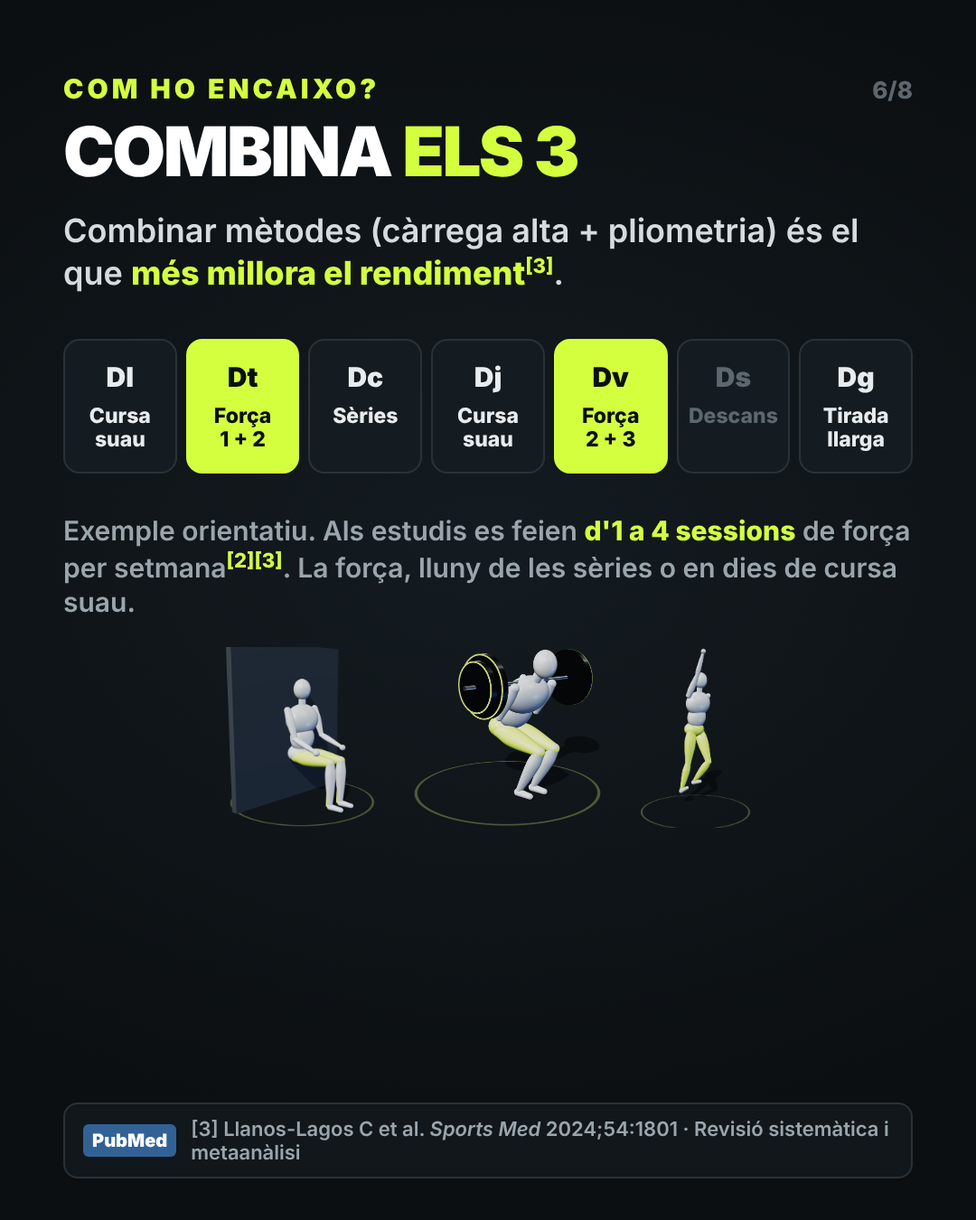
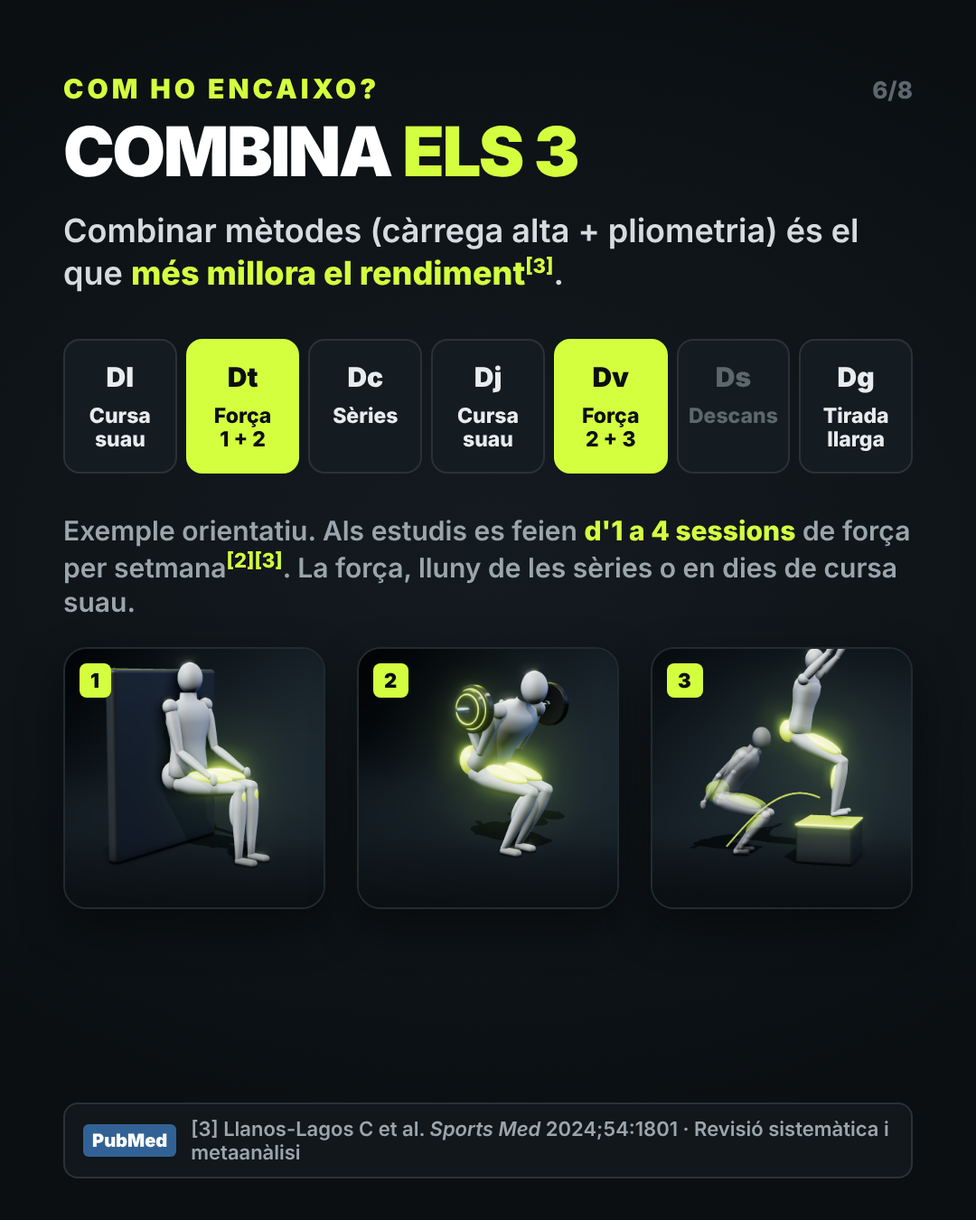
Força: il·lustracions 3D v2 (estudi, AO, bloom, maniquí anatòmic, Aquil·les)
Claude-Session: https://claude.ai/code/session_0129rqGdsRmN9Z9aLzGCda8A

diff --git a/media/publicacions/forca_corredors/3d/scene2.html b/media/publicacions/forca_corredors/3d/scene2.html
@@ -1,0 +1,250 @@
+<html><body style="margin:0;background:#0B0F12">
+<canvas id=c></canvas>
+<script type="importmap">{"imports":{"three":"./node_modules/three/build/three.module.js","three/addons/":"./node_modules/three/examples/jsm/"}}</script>
+<script type="module">
+import * as THREE from 'three';
+import { RoomEnvironment } from 'three/addons/environments/RoomEnvironment.js';
+import { mergeGeometries } from 'three/addons/utils/BufferGeometryUtils.js';
+import { RoundedBoxGeometry } from 'three/addons/geometries/RoundedBoxGeometry.js';
+import { EffectComposer } from 'three/addons/postprocessing/EffectComposer.js';
+import { RenderPass } from 'three/addons/postprocessing/RenderPass.js';
+import { GTAOPass } from 'three/addons/postprocessing/GTAOPass.js';
+import { UnrealBloomPass } from 'three/addons/postprocessing/UnrealBloomPass.js';
+import { OutputPass } from 'three/addons/postprocessing/OutputPass.js';
+
+const P = new URLSearchParams(location.search);
+const W = +P.get('w') || 1000, H = +P.get('h') || 1000, SC = P.get('s'), PR = +P.get('pr') || 2;
+const r = new THREE.WebGLRenderer({ canvas: document.getElementById('c'), antialias: true, preserveDrawingBuffer: true });
+r.setPixelRatio(PR); r.setSize(W, H);
+r.toneMapping = THREE.ACESFilmicToneMapping; r.toneMappingExposure = 0.9;
+r.outputColorSpace = THREE.SRGBColorSpace;
+r.shadowMap.enabled = true; r.shadowMap.type = THREE.PCFSoftShadowMap;
+const scene = new THREE.Scene();
+const pm = new THREE.PMREMGenerator(r);
+scene.environment = pm.fromScene(new RoomEnvironment(), 0.04).texture;
+scene.environmentIntensity = 0.35;
+scene.background = new THREE.Color(0x0B0F12);
+const cam = new THREE.PerspectiveCamera(28, W / H, 0.1, 300);
+const LIME = 0xD4FF3F;
+
+// ---------- estudi: ciclorama (terra + corba + paret)
+function cyclo(y0 = 0) {
+  const g = new THREE.PlaneGeometry(60, 1, 120, 160), p = g.attributes.position;
+  const R = 5, zFront = 30, zCurve = -4;
+  const prof = s => { // s 0..1 → (y,z)
+    const Lf = zFront - zCurve, La = Math.PI / 2 * R, Lw = 25, T = Lf + La + Lw; let d = s * T;
+    if (d < Lf) return [0, zFront - d];
+    d -= Lf; if (d < La) { const a = d / R; return [R - Math.cos(a) * R, zCurve - Math.sin(a) * R]; }
+    d -= La; return [R + d, zCurve - R];
+  };
+  const col = [], c0 = new THREE.Color(0x0B0F12), c1 = new THREE.Color(P.get("dbg") ? 0xff0000 : 0x323D44);
+  for (let i = 0; i < p.count; i++) {
+    const s = p.getY(i) + 0.5, x = p.getX(i); const [y, z] = prof(1 - s); p.setY(i, y + y0); p.setZ(i, z);
+    // llum: màxima a la base de la corba darrere el subjecte, cau cap endavant, amunt i als costats
+    const dz = z - (zCurve - 1.5), dy = y - 1.2;
+    const f = Math.exp(-(dz * dz) / 90 - (dy * dy) / 18 - (x * x) / 60);
+    const c = c0.clone().lerp(c1, f); col.push(c.r, c.g, c.b);
+  }
+  g.setAttribute('color', new THREE.Float32BufferAttribute(col, 3));
+  const m = new THREE.Mesh(g, new THREE.MeshBasicMaterial({ vertexColors: true, side: THREE.DoubleSide, fog: false })); scene.add(m);
+  const sh = new THREE.Mesh(new THREE.PlaneGeometry(40, 40), new THREE.ShadowMaterial({ opacity: .6 }));
+  sh.rotation.x = -Math.PI / 2; sh.position.y = y0 + 0.002; sh.receiveShadow = true; scene.add(sh);
+}
+function lights(k = 1) {
+  const key = new THREE.DirectionalLight(0xfff6ea, 1.7 * k); key.position.set(5, 9, 7); key.castShadow = true;
+  key.shadow.mapSize.set(4096, 4096); key.shadow.bias = -0.0002; key.shadow.normalBias = 0.02;
+  Object.assign(key.shadow.camera, { left: -7, right: 7, top: 7, bottom: -7, near: 1, far: 40 }); scene.add(key);
+  const fill = new THREE.DirectionalLight(0xbcd6ff, 0.6 * k); fill.position.set(-7, 4, 6); scene.add(fill);
+  const rim = new THREE.DirectionalLight(LIME, 2.2); rim.position.set(-5, 5, -6); scene.add(rim);
+  const rim2 = new THREE.DirectionalLight(0x7fb2ff, 1.4); rim2.position.set(6, 3, -6); scene.add(rim2);
+}
+let seed = 7; const rnd = () => (seed = (seed * 16807) % 2147483647) / 2147483647;
+const MAT = {
+  skin: () => new THREE.MeshPhysicalMaterial({ color: 0x9AA3A9, roughness: .55, clearcoat: .15, clearcoatRoughness: .5, sheen: .5, sheenColor: new THREE.Color(0xffffff) }),
+  hot: () => new THREE.MeshPhysicalMaterial({ color: LIME, roughness: .35, clearcoat: .9, clearcoatRoughness: .2, emissive: LIME, emissiveIntensity: .38 }),
+  bone: () => new THREE.MeshPhysicalMaterial({ color: 0xCFC4AE, roughness: .7, clearcoat: .2, sheen: .5, sheenColor: new THREE.Color(0xfff3dd) }),
+  red: () => new THREE.MeshPhysicalMaterial({ color: 0x9B1B25, roughness: .42, clearcoat: .7, clearcoatRoughness: .3, sheen: 1, sheenRoughness: .4, sheenColor: new THREE.Color(0xff9a8a) }),
+  tendon: (hot) => new THREE.MeshPhysicalMaterial({ color: hot ? 0xE6E2D4 : 0xBDB5A4, roughness: .34, clearcoat: 1, clearcoatRoughness: .18, sheen: .9, sheenColor: new THREE.Color(hot ? 0xeaffb0 : 0xffffff), iridescence: hot ? .25 : 0 }),
+};
+
+// ---------- feix de fibres genèric (camí per t → radi)
+function fibres({ N, L, R, prof, amp = 0, twist = 0, rf = 0.04, seedv = 3, segs = 70, y0 = 0 }) {
+  seed = seedv; const geos = [];
+  for (let i = 0; i < N; i++) {
+    const a = rnd() * Math.PI * 2, rr = Math.sqrt(rnd()), A = amp * (0.6 + rnd() * .8), fq = 4 + rnd() * 3, ph = rnd() * 6.28, pts = [];
+    for (let k = 0; k <= 40; k++) {
+      const t = k / 40, rad = R * prof(t) * rr, aa = a + twist * t;
+      pts.push(new THREE.Vector3(Math.cos(aa) * rad + A * Math.sin(fq * t * 6.28 + ph), y0 + t * L, Math.sin(aa) * rad + A * Math.cos(fq * t * 6.28 + ph * 1.7)));
+    }
+    geos.push(new THREE.TubeGeometry(new THREE.CatmullRomCurve3(pts), segs, rf * (0.75 + rnd() * .5), 8, false));
+  }
+  return mergeGeometries(geos);
+}
+
+// ---------- AQUIL·LES: bessó (vermell) → tendó → calcani
+function achilles(strong, x) {
+  const g = new THREE.Group();
+  const Lt = 2.3, Rt = strong ? 0.33 : 0.25;
+  const ten = new THREE.Mesh(fibres({ N: strong ? 95 : 60, L: Lt, R: Rt, prof: t => 0.85 + 0.25 * Math.pow(1 - t, 2) + 0.35 * Math.pow(t, 6), amp: strong ? 0.006 : 0.05, twist: 0.5, rf: strong ? 0.045 : 0.038, seedv: 11 }), MAT.tendon(strong));
+  ten.castShadow = true; g.add(ten);
+  // bessó: ventre muscular que s'estreny cap al tendó
+  const mus = new THREE.Mesh(fibres({ N: 110, L: 2.6, R: 0.78, prof: t => Math.max(0.3, Math.pow(Math.sin(Math.PI * (0.15 + t * 0.85)), 0.7)) * (0.55 + 0.45 * t), twist: 0.2, rf: 0.07, seedv: 23, y0: Lt - 0.15 }), MAT.red());
+  mus.castShadow = true; g.add(mus);
+  // calcani
+  const bm = MAT.bone();
+  const cal = new THREE.Mesh(new RoundedBoxGeometry(0.95, 0.62, 0.7, 6, 0.26), bm); cal.position.set(-0.12, -0.22, 0); cal.rotation.z = 0.18; cal.castShadow = true; g.add(cal);
+  const tub = new THREE.Mesh(new THREE.SphereGeometry(0.34, 48, 32), bm); tub.position.set(-0.36, -0.12, 0); tub.scale.set(1, .9, 1.1); tub.castShadow = true; g.add(tub);
+  g.position.x = x; g.position.y = 0.5; return g;
+}
+
+// ---------- MÚSCUL fusiforme amb tendons fibrosos
+function muscle(big, x) {
+  const g = new THREE.Group(), L = 3.6, R = big ? 1.02 : 0.6;
+  const m = new THREE.Mesh(fibres({ N: big ? 170 : 90, L, R, prof: t => Math.pow(Math.sin(Math.PI * t), 0.75), twist: 0.35, rf: big ? 0.075 : 0.065, seedv: 31, y0: 0.7 }), MAT.red());
+  m.castShadow = true; g.add(m);
+  const tm = MAT.tendon(true);
+  const t1 = new THREE.Mesh(fibres({ N: 26, L: 0.85, R: 0.13, prof: t => 1 - 0.4 * t, rf: 0.03, seedv: 5 }), tm); t1.castShadow = true; g.add(t1);
+  const t2 = new THREE.Mesh(fibres({ N: 26, L: 0.85, R: 0.13, prof: t => 0.6 + 0.4 * t, rf: 0.03, seedv: 6, y0: L + 0.55 }), tm); t2.castShadow = true; g.add(t2);
+  g.position.x = x; g.position.y = 0.05; return g;
+}
+
+// ---------- MOLLA
+function spring(stiff, x) {
+  const g = new THREE.Group(), turns = 6, R = 0.8, h = stiff ? 2.5 : 1.35, wire = stiff ? 0.19 : 0.085, pts = [];
+  for (let k = 0; k <= 500; k++) { const t = k / 500, a = t * turns * 6.283; pts.push(new THREE.Vector3(Math.cos(a) * R, 0.2 + t * h, Math.sin(a) * R)); }
+  const m = new THREE.Mesh(new THREE.TubeGeometry(new THREE.CatmullRomCurve3(pts), 1200, wire, 32, false),
+    stiff ? new THREE.MeshPhysicalMaterial({ color: LIME, metalness: .55, roughness: .22, clearcoat: 1, emissive: LIME, emissiveIntensity: .12 })
+          : new THREE.MeshPhysicalMaterial({ color: 0xA9B3B9, metalness: .9, roughness: .28 }));
+  m.castShadow = true; g.add(m);
+  const pm = new THREE.MeshPhysicalMaterial({ color: 0x252D33, metalness: .6, roughness: .32, clearcoat: .8 });
+  const base = new THREE.Mesh(new RoundedBoxGeometry(2.3, 0.22, 2.3, 6, 0.08), pm); base.position.y = 0.11; base.castShadow = base.receiveShadow = true; g.add(base);
+  const top = new THREE.Mesh(new RoundedBoxGeometry(2.3, 0.34, 2.3, 6, 0.1), pm); top.position.y = 0.2 + h + 0.17; top.castShadow = true; g.add(top);
+  // pes que prem (només a la tova)
+  if (!stiff) { const w = new THREE.Mesh(new RoundedBoxGeometry(1.5, 0.9, 1.5, 6, 0.14), new THREE.MeshPhysicalMaterial({ color: 0x0F1316, metalness: .3, roughness: .4, clearcoat: .6 })); w.position.y = 0.2 + h + 0.34 + 0.45; w.castShadow = true; g.add(w); }
+  else { // fletxa de rebot
+    const ar = new THREE.Mesh(new THREE.ConeGeometry(0.28, 0.5, 40), MAT.hot()); ar.position.y = 0.2 + h + 1.05; g.add(ar);
+    const st = new THREE.Mesh(new THREE.CylinderGeometry(0.08, 0.08, 0.6, 24), MAT.hot()); st.position.y = 0.2 + h + 0.55; g.add(st);
+  }
+  g.position.x = x; return g;
+}
+
+// ---------- MANIQUÍ anatòmic
+const rad = x => x * Math.PI / 180;
+const dn = (p, th, L) => new THREE.Vector3(p.x + Math.sin(rad(th)) * L, p.y - Math.cos(rad(th)) * L, p.z);
+function limb(a, b, r1, r2, mat, bulge = 0, peak = .35) {
+  const d = new THREE.Vector3().subVectors(b, a), L = d.length(), pts = [];
+  for (let k = 0; k <= 48; k++) {
+    const t = k / 48, u = t < peak ? t / peak * .5 : .5 + (t - peak) / (1 - peak) * .5;
+    pts.push(new THREE.Vector2(r1 + (r2 - r1) * t + bulge * Math.pow(Math.sin(Math.PI * u), 1.6), t * L));
+  }
+  const g = new THREE.Group();
+  g.add(new THREE.Mesh(new THREE.LatheGeometry(pts, 56), mat));
+  const s1 = new THREE.Mesh(new THREE.SphereGeometry(r1, 40, 28), mat); g.add(s1);
+  const s2 = new THREE.Mesh(new THREE.SphereGeometry(r2, 40, 28), mat); s2.position.y = L; g.add(s2);
+  g.position.copy(a); g.quaternion.setFromUnitVectors(new THREE.Vector3(0, 1, 0), d.normalize()); return g;
+}
+// múscul en relleu sobre un segment (el·lipsoide orientat)
+function belly(a, b, side, t0, t1, rAcross, rZ, off, mat) {
+  const d = new THREE.Vector3().subVectors(b, a), L = d.length(); const u = d.clone().normalize();
+  const n = new THREE.Vector3(-u.y, u.x, 0);
+  const c = a.clone().add(u.clone().multiplyScalar(L * (t0 + t1) / 2)).add(n.multiplyScalar(side * off));
+  const e = new THREE.Mesh(new THREE.SphereGeometry(1, 48, 32), mat); e.scale.set(rAcross, L * (t1 - t0) / 2, rZ);
+  e.position.copy(c); e.quaternion.setFromUnitVectors(new THREE.Vector3(0, 1, 0), u); return e;
+}
+function man(P, hi, mats) {
+  const skin = mats?.skin || MAT.skin(), hot = mats?.hot || MAT.hot(); const H = n => hi.includes(n);
+  const g = new THREE.Group(); let low = 99;
+  const up = new THREE.Vector3(Math.sin(rad(P.tor)), Math.cos(rad(P.tor)), 0), fw = new THREE.Vector3(up.y, -up.x, 0);
+  const q = new THREE.Quaternion().setFromUnitVectors(new THREE.Vector3(0, 1, 0), up);
+  // tronc (perfil anatòmic)
+  const prof = [[0.0, .2], [.05, .27], [.18, .26], [.38, .235], [.55, .25], [.75, .3], [.9, .29], [1.0, .22], [1.05, .12], [1.14, .11]];
+  const tor = new THREE.Group(); const lat = new THREE.Mesh(new THREE.LatheGeometry(prof.map(([y, rr]) => new THREE.Vector2(rr, y)), 64), skin);
+  lat.scale.set(.78, 1, 1.28); tor.add(lat); tor.quaternion.copy(q); g.add(tor);
+  const neck = up.clone().multiplyScalar(1.08);
+  const head = new THREE.Mesh(new THREE.SphereGeometry(0.17, 56, 40), skin); head.scale.set(1, 1.2, .95); head.position.copy(up.clone().multiplyScalar(1.33)).add(fw.clone().multiplyScalar(.03)); g.add(head);
+  // glutis
+  for (const z of [.15, -.15]) { const gl = new THREE.Mesh(new THREE.SphereGeometry(1, 40, 28), H('gluti') ? hot : skin); gl.scale.set(.17, .2, .16); gl.position.copy(fw.clone().multiplyScalar(-.13)).add(up.clone().multiplyScalar(.02)); gl.position.z = z; g.add(gl); }
+  P.legs.forEach(([t, s, f], i) => {
+    const z = i ? -0.15 : 0.15, h = new THREE.Vector3(0, -0.06, z);
+    const k = dn(h, t, 0.92), a = dn(k, s, 0.9);
+    g.add(limb(h, k, 0.13, 0.075, skin, 0.04, .3)); g.add(limb(k, a, 0.075, 0.045, skin, 0.025, .3));
+    // quàdriceps (davant cuixa), bessó (darrere cama)
+    g.add(belly(h, k, 1, .1, .88, .095, .13, .1, H('quadri') ? hot : skin));
+    g.add(belly(k, a, -1, .06, .56, .07, .08, .065, H('besso') ? hot : skin));
+    if (H('tendo')) { g.add(belly(k, a, 1, .02, .22, .03, .045, .06, hot)); g.add(belly(k, a, -1, .62, .97, .028, .04, .028, hot)); }
+    // peu
+    const fa = rad(f), foot = new THREE.Mesh(new RoundedBoxGeometry(0.3, 0.085, 0.12, 4, 0.04), skin);
+    const fc = new THREE.Vector3(a.x + Math.sin(fa) * 0.11 , a.y - Math.cos(fa) * 0.11 - 0.03, z);
+    foot.position.copy(fc); foot.rotation.z = fa - Math.PI / 2; g.add(foot);
+    const toe = new THREE.Vector3(a.x + Math.sin(fa) * 0.26, a.y - Math.cos(fa) * 0.26, z);
+    low = Math.min(low, a.y - 0.09, toe.y - 0.05);
+  });
+  P.arms.forEach(([u, f], i) => {
+    const z = i ? -0.39 : 0.39, sh = neck.clone().sub(up.clone().multiplyScalar(.12)); sh.z = z;
+    const e = dn(sh, u, 0.6), w = dn(e, f, 0.55);
+    const del = new THREE.Mesh(new THREE.SphereGeometry(0.1, 40, 28), skin); del.position.copy(sh); g.add(del);
+    g.add(limb(sh, e, 0.07, 0.052, skin, 0.02, .35)); g.add(limb(e, w, 0.05, 0.035, skin, 0.015, .3));
+    const hand = new THREE.Mesh(new THREE.SphereGeometry(0.065, 32, 24), skin); hand.scale.set(.8, 1.25, .6); hand.position.copy(dn(w, f, 0.07)); g.add(hand);
+  });
+  g.traverse(o => { if (o.isMesh) { o.castShadow = true; o.receiveShadow = true; } });
+  g.position.y = -low + (P.lift || 0); g.userData = { neck: neck.clone().add(new THREE.Vector3(0, g.position.y, 0)), sh: neck.clone().sub(up.clone().multiplyScalar(.12)).add(new THREE.Vector3(0, g.position.y, 0)) };
+  return g;
+}
+function ghost(op) { return { skin: new THREE.MeshStandardMaterial({ color: 0xD8DCDF, transparent: true, opacity: op, roughness: .6, depthWrite: false }), hot: new THREE.MeshStandardMaterial({ color: LIME, emissive: LIME, emissiveIntensity: .15, transparent: true, opacity: op, depthWrite: false }) }; }
+function barbell(y, x) {
+  const g = new THREE.Group();
+  const bar = new THREE.Mesh(new THREE.CylinderGeometry(0.022, 0.022, 2.1, 32), new THREE.MeshPhysicalMaterial({ color: 0xD0D6DA, metalness: 1, roughness: .18 }));
+  bar.rotation.x = Math.PI / 2; g.add(bar);
+  const pmat = new THREE.MeshPhysicalMaterial({ color: 0x14181B, metalness: .2, roughness: .45, clearcoat: .8 });
+  for (const s of [1, -1]) {
+    [[0.27, 0.07, 0.72], [0.21, 0.05, 0.8]].forEach(([R, w, z]) => {
+      const sh = new THREE.Shape(); sh.absarc(0, 0, R, 0, Math.PI * 2); const hole = new THREE.Path(); hole.absarc(0, 0, 0.04, 0, Math.PI * 2, true); sh.holes.push(hole);
+      const geo = new THREE.ExtrudeGeometry(sh, { depth: w, bevelEnabled: true, bevelSize: 0.015, bevelThickness: 0.015, bevelSegments: 3, curveSegments: 96 });
+      const p = new THREE.Mesh(geo, pmat); p.position.z = s > 0 ? z : -z - w; g.add(p);
+      const rim = new THREE.Mesh(new THREE.TorusGeometry(R - 0.035, 0.009, 8, 128), MAT.hot()); rim.position.z = s > 0 ? z + w + 0.016 : -z - w - 0.016; g.add(rim);
+    });
+    const col = new THREE.Mesh(new THREE.CylinderGeometry(0.05, 0.05, 0.06, 32), bar.material); col.rotation.x = Math.PI / 2; col.position.z = s * 0.69; g.add(col);
+  }
+  g.traverse(o => { if (o.isMesh) o.castShadow = true; }); g.position.set(x, y, 0); return g;
+}
+
+// ---------- escenes
+lights(); cyclo();
+let look = new THREE.Vector3();
+if (SC === 'aquil') {
+  scene.add(achilles(false, -1.25), achilles(true, 1.25));
+  cam.position.set(0.7, 3.4, 16.5); look.set(0, 2.25, 0);
+} else if (SC === 'muscul') {
+  scene.add(muscle(false, -1.35), muscle(true, 1.45));
+  cam.position.set(0.6, 3.0, 13.5); look.set(0, 2.45, 0);
+} else if (SC === 'molla') {
+  scene.add(spring(false, -1.45), spring(true, 1.45));
+  cam.position.set(0, 4.6, 15.5); look.set(0, 1.45, 0);
+} else if (SC === 'paret') {
+  const m = man({ tor: 0, legs: [[90, 0, 90], [90, 0, 90]], arms: [[15, 60], [15, 60]] }, ['quadri', 'tendo']); scene.add(m);
+  const wall = new THREE.Mesh(new RoundedBoxGeometry(0.18, 2.5, 2.2, 6, 0.06), new THREE.MeshPhysicalMaterial({ color: 0x262E33, roughness: .6, clearcoat: .2 }));
+  wall.position.set(-0.4, 1.25, 0); wall.castShadow = wall.receiveShadow = true; scene.add(wall);
+  cam.position.set(5.6, 2.4, 7.4); look.set(0.1, 1.05, 0);
+} else if (SC === 'esquat') {
+  const m = man({ tor: 36, legs: [[80, -30, 90], [80, -30, 90]], arms: [[-30, -150], [-30, -150]] }, ['quadri', 'gluti']); scene.add(m);
+  scene.add(barbell(m.userData.sh.y + 0.04, m.userData.sh.x - 0.08));
+  cam.position.set(6.0, 2.4, 6.8); look.set(0.05, 0.95, 0);
+} else if (SC === 'salt') {
+  const box = new THREE.Mesh(new RoundedBoxGeometry(1.0, 0.7, 1.1, 6, 0.06), new THREE.MeshPhysicalMaterial({ color: 0x262E33, roughness: .55, clearcoat: .3 }));
+  box.position.set(1.05, 0.35, 0); box.castShadow = box.receiveShadow = true; scene.add(box);
+  const edge = new THREE.Mesh(new RoundedBoxGeometry(1.01, 0.04, 1.11, 4, 0.02), MAT.hot()); edge.position.set(1.05, 0.69, 0); scene.add(edge);
+  const g1 = man({ tor: 34, legs: [[75, -40, 95], [75, -40, 95]], arms: [[-50, -30], [-50, -30]] }, ['besso', 'quadri', 'gluti'], ghost(.22)); g1.position.x = -1.0; scene.add(g1);
+  const m = man({ tor: 12, legs: [[62, -8, 100], [62, -8, 100]], arms: [[135, 150], [135, 150]], lift: 0.78 }, ['besso', 'quadri', 'gluti']); m.position.x = 0.45; scene.add(m);
+  const pts = []; for (let k = 0; k <= 60; k++) { const t = k / 60; pts.push(new THREE.Vector3(-0.7 + t * 1.7, 0.25 + Math.sin(Math.PI * t * .62) * 1.0, 0.6)); }
+  const arc = new THREE.Mesh(new THREE.TubeGeometry(new THREE.CatmullRomCurve3(pts), 100, 0.016, 8, false), new THREE.MeshBasicMaterial({ color: LIME, transparent: true, opacity: .75 })); scene.add(arc);
+  cam.position.set(3.6, 2.6, 12.0); look.set(0.15, 1.45, 0);
+}
+cam.lookAt(look);
+const comp = new EffectComposer(r);
+comp.addPass(new RenderPass(scene, cam));
+const ao = new GTAOPass(scene, cam, W * PR, H * PR); ao.updateGtaoMaterial({ radius: 0.35, distanceExponent: 1.5, thickness: 1, scale: 1.2, samples: 16 }); ao.blendIntensity = 0.9; comp.addPass(ao);
+comp.addPass(new UnrealBloomPass(new THREE.Vector2(W * PR, H * PR), 0.35, 0.45, 0.97));
+comp.addPass(new OutputPass());
+comp.render();
+window.done = true;
+</script></body></html>

diff --git a/media/publicacions/forca_corredors/3d/render2.js b/media/publicacions/forca_corredors/3d/render2.js
@@ -1,0 +1,8 @@
+const {chromium}=require('playwright');
+const L={aquil:[875,1000],muscul:[875,1000],molla:[875,1000],paret:[750,1000],esquat:[750,1000],salt:[750,1000]};
+(async()=>{const b=await chromium.launch({args:['--use-gl=angle','--use-angle=swiftshader','--enable-unsafe-swiftshader','--ignore-gpu-blocklist']});
+for (const s of (process.argv[2]||Object.keys(L).join(',')).split(',')){const [w,h]=L[s];const pr=+(process.argv[3]||2);
+ const p=await b.newPage({viewport:{width:w,height:h},deviceScaleFactor:pr});p.on('pageerror',e=>console.log(s,e.message));p.on('console',m=>{if(m.type()==='error')console.log(s,m.text())});
+ const t=Date.now();await p.goto(`http://localhost:8765/scene2.html?s=${s}&w=${w}&h=${h}&pr=${pr}`);await p.waitForFunction('window.done',null,{timeout:600000});
+ await p.locator('#c').screenshot({path:`q_${s}.png`});await p.close();console.log('ok',s,(Date.now()-t)/1000+'s');}
+await b.close();})();

diff --git a/media/publicacions/forca_corredors/gen.py b/media/publicacions/forca_corredors/gen.py
@@ -28,38 +28,43 @@ S[1] = photo_slide("tonus_camilla_bracos_creuats.jpg", """
 <div style="font-weight:900;font-size:104px;line-height:.94;letter-spacing:-4px;text-transform:uppercase;color:#fff;margin-top:16px">Els 3 pilars <span style="color:#D4FF3F">de la força per córrer</span></div>
 <div style="display:inline-block;background:#D4FF3F;color:#0B0F12;font-weight:900;font-size:38px;padding:14px 24px;border-radius:14px;margin-top:26px">Fas força? Potser et falta una peça 👉</div>""", top_band=520, off=380)
 
+def ill(img, w, h, bottom="", tag=""):
+    t = f'<div style="position:absolute;top:16px;left:16px;background:#D4FF3F;color:#0B0F12;font-size:22px;font-weight:900;padding:6px 12px;border-radius:8px;letter-spacing:1px">{tag}</div>' if tag else ""
+    return (f'<div style="position:relative;width:{w}px;height:{h}px;border-radius:26px;overflow:hidden;border:2px solid #222B31;box-shadow:0 20px 50px rgba(0,0,0,.45)">'
+            f'<img src="{U(img)}" style="width:100%;height:100%;object-fit:cover">{t}'
+            f'<div style="position:absolute;left:0;right:0;bottom:0;padding:60px 14px 16px;background:linear-gradient(0deg,rgba(11,15,18,.92),rgba(11,15,18,0))">{bottom}</div></div>')
+def two(l, ls, r, rs):
+    return (f'<div style="display:flex;justify-content:space-around"><div class="lab"><b style="color:#B9C1C6">{l}</b>{ls}</div>'
+            f'<div class="lab"><b>{r}</b>{rs}</div></div>')
+one = lambda t, sub="": f'<div class="lab"><b>{t}</b>{sub}</div>'
+
 S[2] = f"""<div class="s">{pg(2)}<div class="k">Abans de començar</div>
 <h2>Fer exercicis <em>≠</em> estar preparat</h2>
 <p style="margin-top:30px">Equilibris, gomes i exercicis lleugers sumen. Però <b>si només fas això</b>, et falten peces. Córrer demana tres coses:</p>
-<div style="display:flex;justify-content:space-between;align-items:flex-end;margin-top:60px;height:720px">
-<div style="width:300px"><img src="{U('c_paret.png')}" style="width:300px;height:560px;object-fit:contain"><div class="lab"><b>1 · Tendons</b>que aguantin</div></div>
-<div style="width:320px"><img src="{U('c_esquat.png')}" style="width:320px;height:560px;object-fit:contain"><div class="lab"><b>2 · Múscul</b>que empenyi</div></div>
-<div style="width:300px"><img src="{U('c_salt.png')}" style="width:300px;height:560px;object-fit:contain"><div class="lab"><b>3 · Potència</b>per rebotar</div></div></div></div>"""
+<div style="display:flex;justify-content:space-between;margin-top:70px">
+{ill('q_paret.png', 300, 560, one('Tendons', 'que aguantin'), '1')}{ill('q_esquat.png', 300, 560, one('Múscul', 'que empenyi'), '2')}{ill('q_salt.png', 300, 560, one('Potència', 'per rebotar'), '3')}</div></div>"""
 
 S[3] = f"""<div class="s">{pg(3)}<div class="k">Pilar 1 · Tendons</div>
 <h2>Càrrega <em>alta</em>, tendó més fort</h2>
-<div style="display:flex;gap:20px;margin-top:26px;height:700px">
-<div style="flex:1.15;position:relative"><img src="{U('c_tendo.png')}" style="width:100%;height:620px;object-fit:contain">
-<div style="display:flex;justify-content:space-around"><div class="lab"><b style="color:#B9C1C6">Fibres laxes</b>poca càrrega</div><div class="lab"><b>Més fort</b>transmet millor la força</div></div></div>
-<div style="flex:.85;display:flex;flex-direction:column;justify-content:center"><img src="{U('c_paret.png')}" style="width:100%;height:420px;object-fit:contain"><div class="lab" style="margin-top:6px"><b>Ex.: cadira a la paret</b>o esquat aguantant</div></div></div>
+<div style="display:flex;gap:20px;margin-top:30px">
+{ill('q_aquil.png', 490, 640, two('Poca càrrega', 'fibres laxes', 'Càrrega alta', 'tendó més fort'))}
+{ill('q_paret.png', 420, 640, one('Cadira a la paret', 'o esquat aguantant'), 'EXEMPLE')}</div>
 <p style="margin-top:34px">Carregar el tendó el fa més fort. El que més l'enforteix és <b>la càrrega alta</b>, no fer moltes repeticions lleugeres{ref(1)}.</p>
 {card('[1] Lazarczuk SL et al. <i>Sports Med</i> 2022 · Revisió sistemàtica i metaanàlisi · 61 estudis')}</div>"""
 
 S[4] = f"""<div class="s">{pg(4)}<div class="k">Pilar 2 · Múscul</div>
 <h2>Pes <em>de debò</em></h2>
-<div style="display:flex;gap:10px;margin-top:20px;height:700px;align-items:center">
-<div style="flex:1"><img src="{U('c_muscul.png')}" style="width:100%;height:600px;object-fit:contain">
-<div style="display:flex;justify-content:space-around"><div class="lab"><b style="color:#B9C1C6">Abans</b></div><div class="lab"><b>Més fibra</b></div></div></div>
-<div style="flex:1"><img src="{U('c_esquat.png')}" style="width:100%;height:600px;object-fit:contain"><div class="lab"><b>Esquat amb barra</b></div></div></div>
-<p style="margin-top:30px">Esquat, pont de glutis, gambades, bessó i sòleo. Amb <b>càrregues altes</b> (≥80 % del teu màxim) millora el <b>temps</b>{ref(3)} i gastes menys energia a cada passa{ref(2)}.</p>
+<div style="display:flex;gap:20px;margin-top:30px">
+{ill('q_muscul.png', 490, 640, two('Abans', '', 'Després', 'més fibra'))}
+{ill('q_esquat.png', 420, 640, one('Esquat amb barra', 'càrrega alta'), 'EXEMPLE')}</div>
+<p style="margin-top:34px">Esquat, pont de glutis, gambades, bessó i sòleo. Amb <b>càrregues altes</b> (≥80 % del teu màxim) millora el <b>temps</b>{ref(3)} i gastes menys energia a cada passa{ref(2)}.</p>
 {card('[2][3] Llanos-Lagos C et al. <i>Sports Med</i> 2024 · 2 revisions sistemàtiques i metaanàlisis')}</div>"""
 
 S[5] = f"""<div class="s">{pg(5)}<div class="k">Pilar 3 · Potència</div>
 <h2>Fes la cama <em>més molla</em></h2>
-<div style="display:flex;gap:10px;margin-top:20px;height:540px;align-items:flex-end">
-<div style="flex:1.3"><img src="{U('c_molla.png')}" style="width:100%;height:400px;object-fit:contain">
-<div style="display:flex;justify-content:space-around"><div class="lab"><b style="color:#B9C1C6">Tova</b>s'enfonsa</div><div class="lab"><b>Rígida</b>rebota</div></div></div>
-<div style="flex:.7"><img src="{U('c_salt.png')}" style="width:100%;height:470px;object-fit:contain"><div class="lab"><b>Salts</b></div></div></div>
+<div style="display:flex;gap:20px;margin-top:30px">
+{ill('q_molla.png', 490, 520, two('Tova', "s'enfonsa", 'Rígida', 'rebota'))}
+{ill('q_salt.png', 420, 520, one('Salts', 'pliometria'), 'EXEMPLE')}</div>
 <p style="margin-top:30px"><b>Salts (pliometria):</b> milloren l'economia, sobretot a ritmes suaus (≤12 km/h){ref(2)}. Primer molts i suaus; després pocs i explosius.<br><b>Empènyer fort 3–5 s</b> contra un objecte fix va funcionar en un assaig{ref(4)}, però en conjunt l'evidència és més feble{ref(2)}.</p>
 {card('[4] Lum D et al. <i>Res Q Exerc Sport</i> 2023 · Assaig aleatoritzat · 26 corredors')}</div>"""
 
@@ -70,8 +75,7 @@ S[6] = f"""<div class="s">{pg(6)}<div class="k">Com ho encaixo?</div>
 <p style="margin-top:28px">Combinar mètodes (càrrega alta + pliometria) és el que <b>més millora el rendiment</b>{ref(3)}.</p>
 <div style="display:flex;gap:10px;margin-top:50px">{cells}</div>
 <p style="margin-top:44px;font-size:30px;color:#9AA5AC">Exemple orientatiu. Als estudis es feien <b>d'1 a 4 sessions</b> de força per setmana{ref(2,3)}. La força, lluny de les sèries o en dies de cursa suau.</p>
-<div style="display:flex;justify-content:center;gap:40px;margin-top:30px;opacity:.9">
-<img src="{U('c_paret.png')}" style="height:200px"><img src="{U('c_esquat.png')}" style="height:200px"><img src="{U('c_salt.png')}" style="height:200px"></div>
+<div style="display:flex;justify-content:space-between;margin-top:30px">{ill('q_paret.png', 290, 290, '', '1')}{ill('q_esquat.png', 290, 290, '', '2')}{ill('q_salt.png', 290, 290, '', '3')}</div>
 {card('[3] Llanos-Lagos C et al. <i>Sports Med</i> 2024;54:1801 · Revisió sistemàtica i metaanàlisi')}</div>"""
 
 row = lambda ic, col, t: f'<div style="display:flex;gap:24px;align-items:flex-start;margin-top:30px"><div style="width:62px;height:62px;border-radius:50%;background:{col};color:#0B0F12;font-size:36px;font-weight:900;display:flex;align-items:center;justify-content:center;flex-shrink:0">{ic}</div><p style="font-size:34px">{t}</p></div>'
